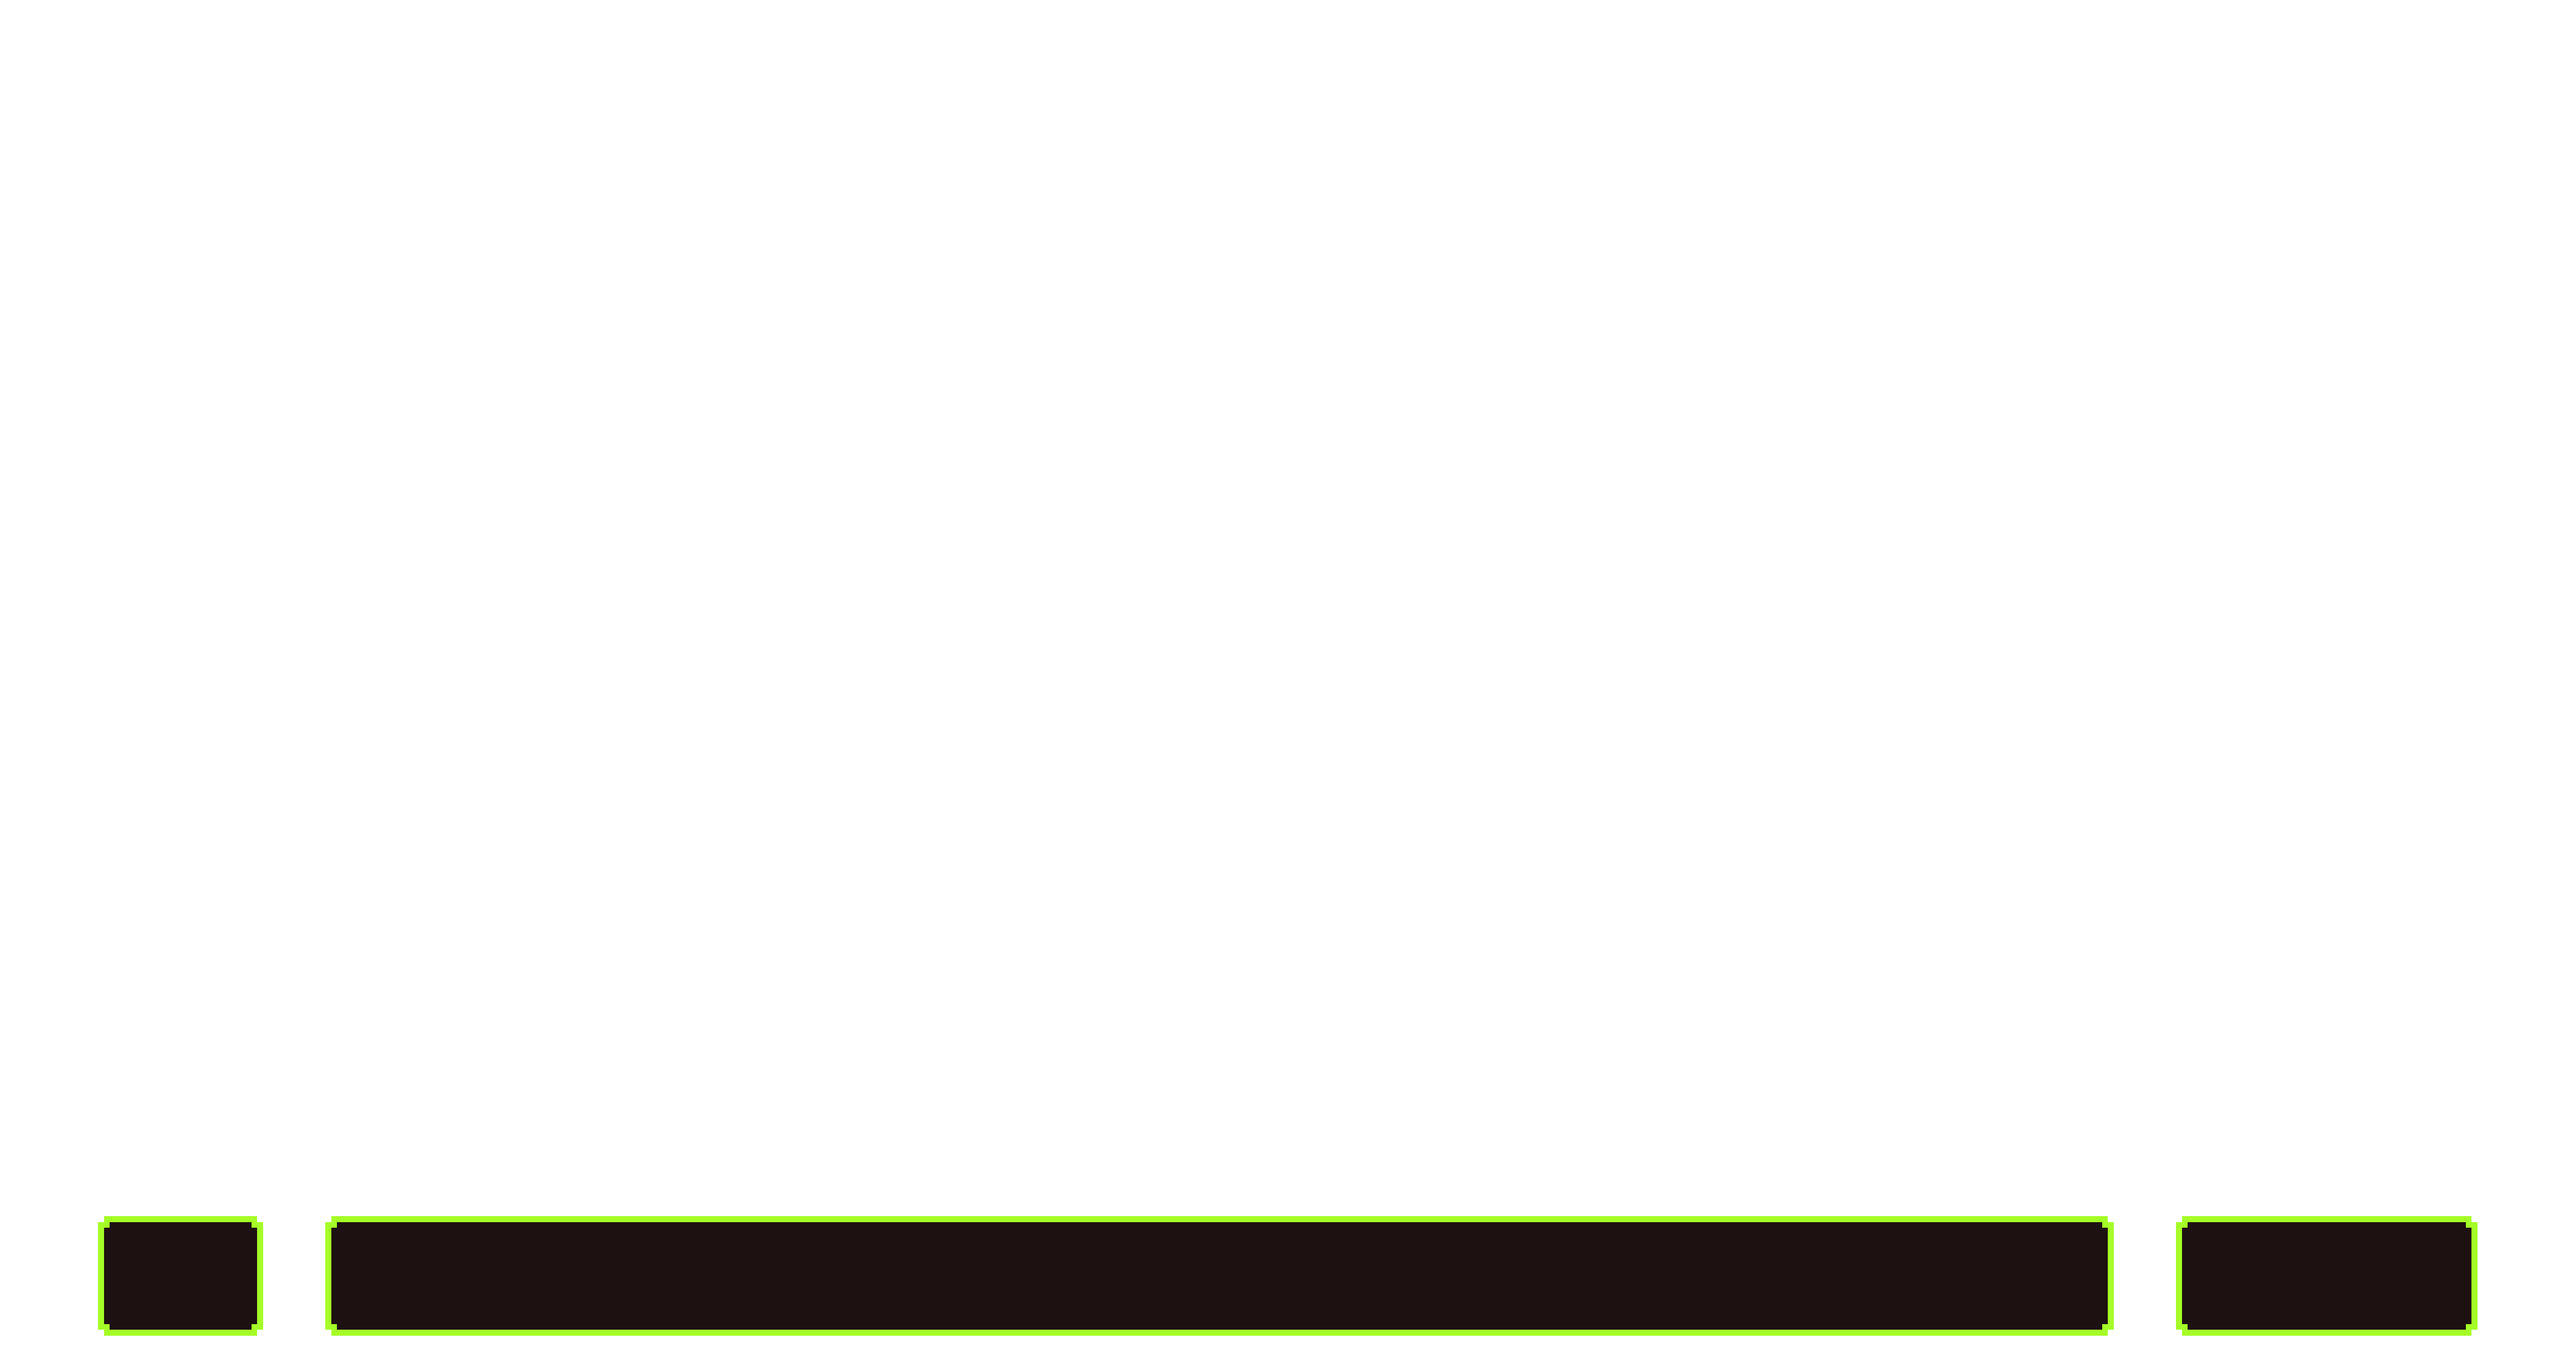
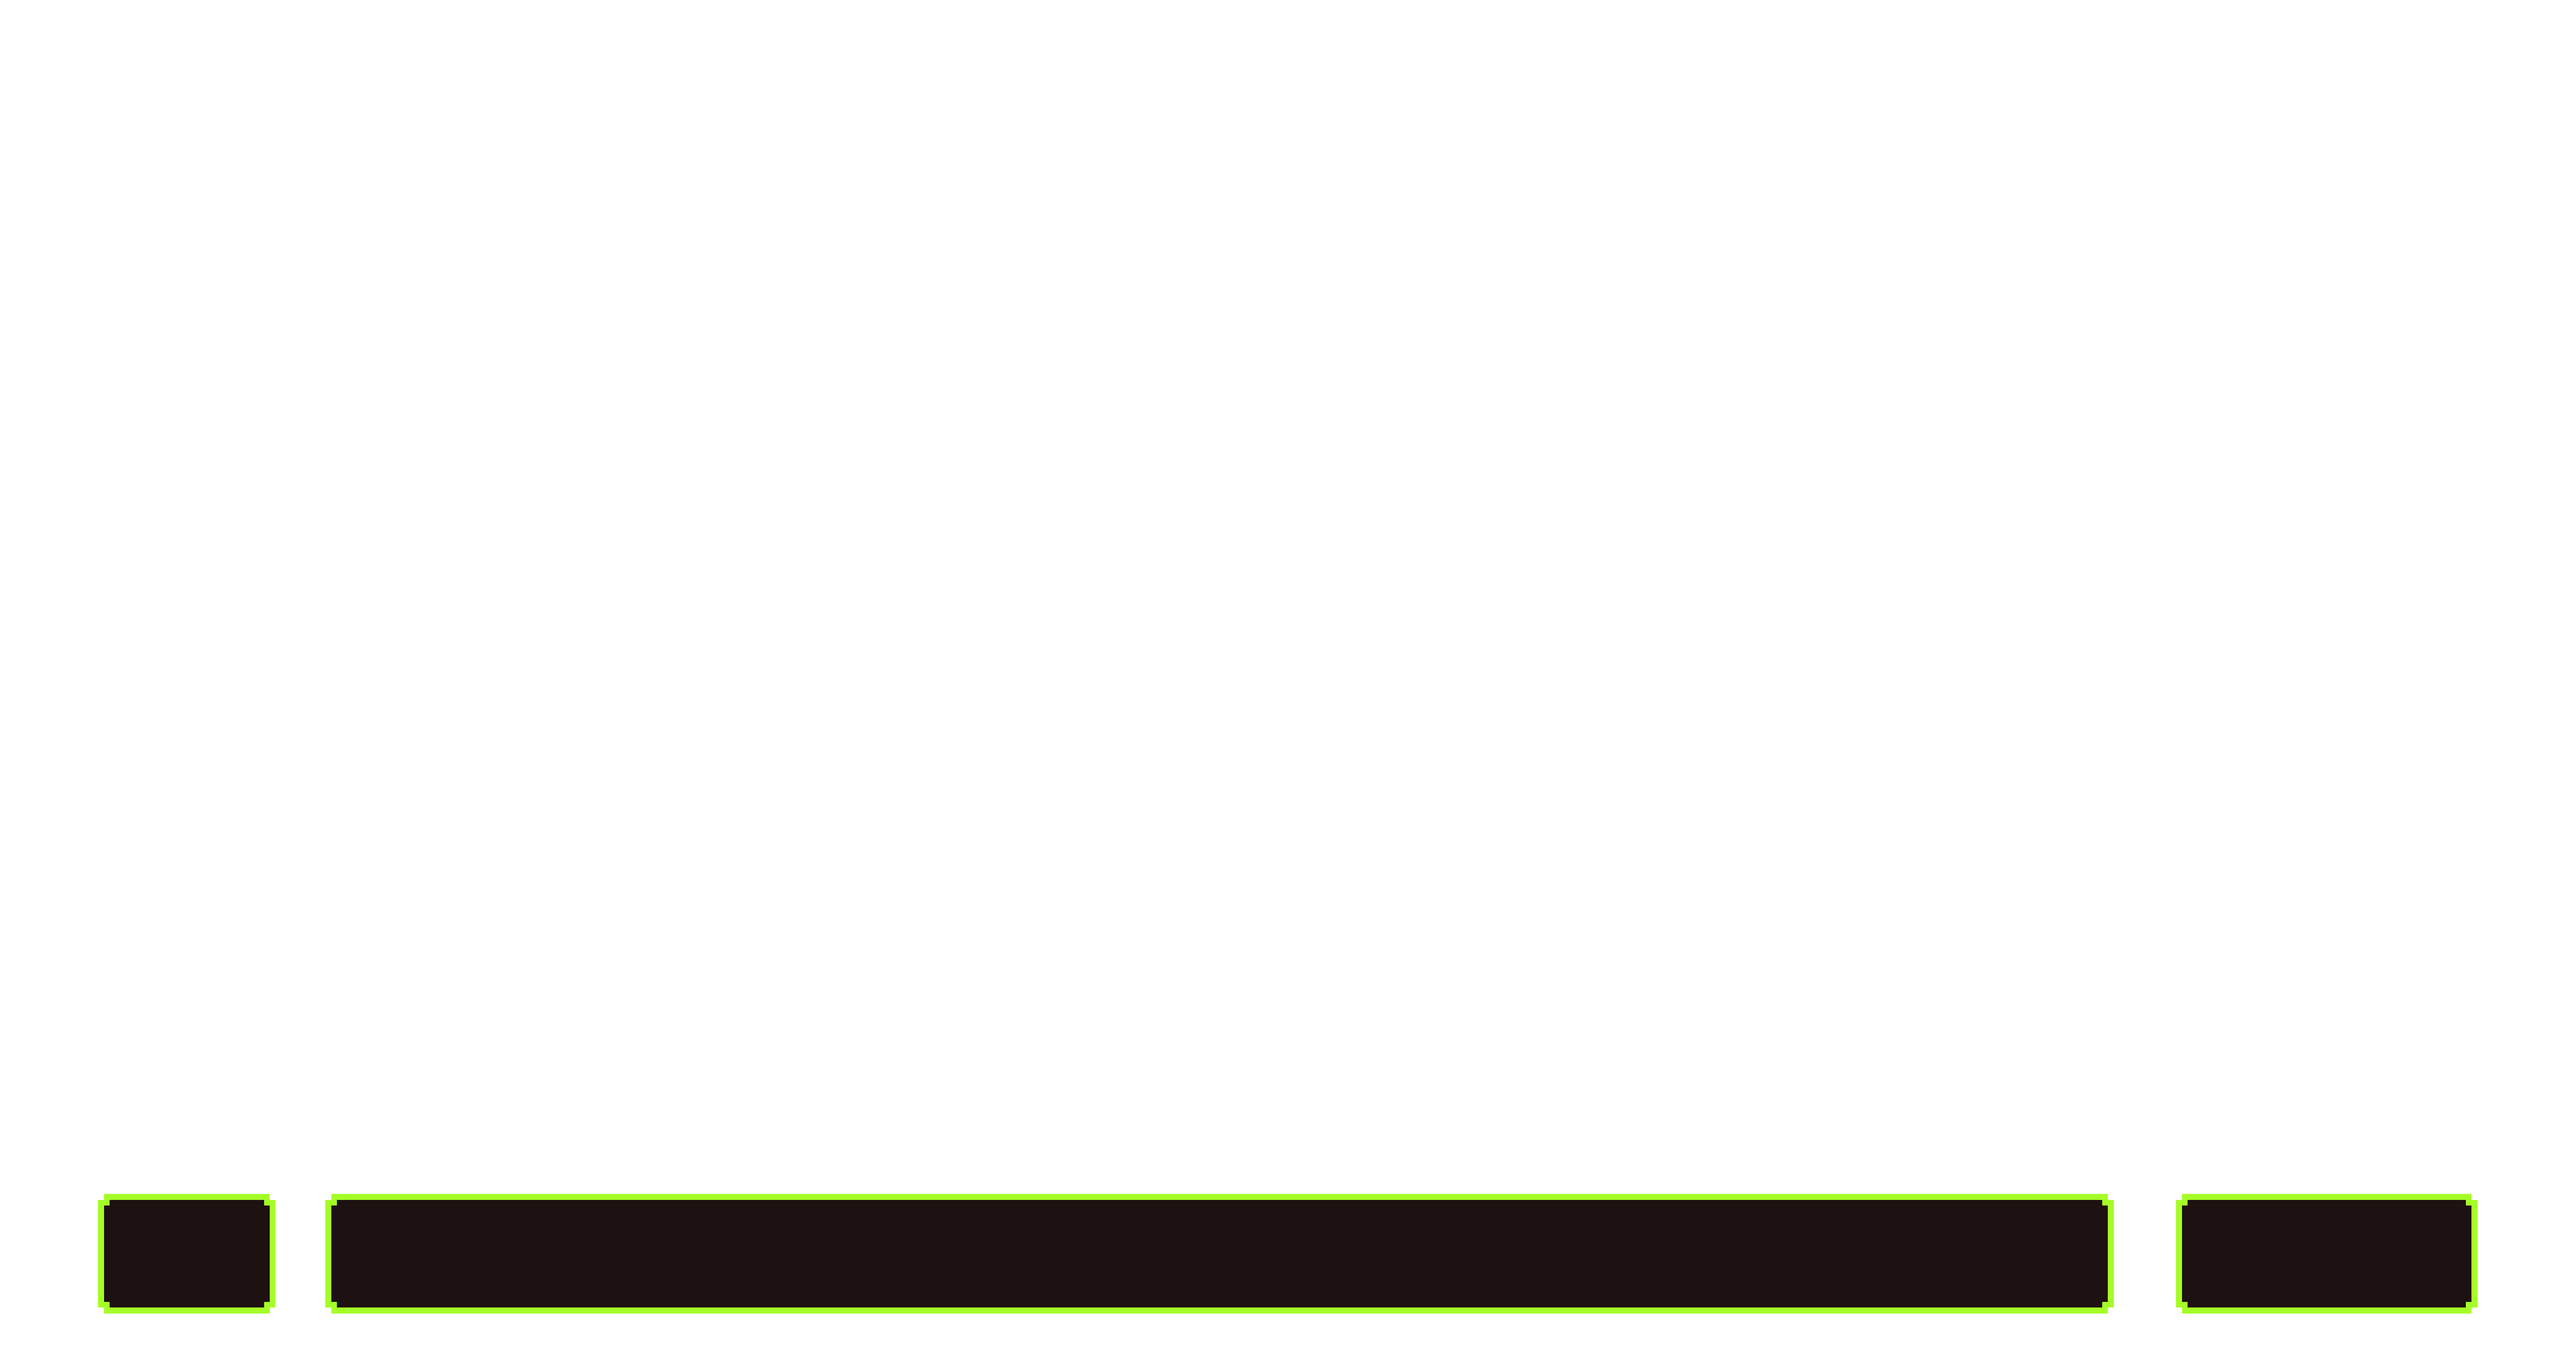
Added UI

Changed region(s): [[0.0312, 0.8711, 0.9665, 0.9956]]

diff --git a/main.js b/main.js
@@ -7,7 +7,8 @@ canvas.height = 840;
 let ctx = canvas.getContext("2d");
 let interval;
 let score = 0;
-let bullets = 3;
+let bullets = 20;
+let round = 0
 let isFreezeActive = false;
 let isPaused = false;
 let coopEnabled = false;
@@ -19,7 +20,9 @@ let images = {
   bg1: "./images/backgroundHD.png",
   bg2: "./images/sunsetHD.png",
   env: "./images/environmentHD.png",
-  crossh: "./images/crosshairHD.png"
+  crossh: "./images/crosshairHD.png",
+  ui: "./images/scoreboardHD.png",
+  bul:"./images/bulletHD.png"
 };
 
 class Environment {
@@ -42,7 +45,7 @@ function KeyLayout() {
     ["A", "S", "D", "F", "G", "H", "J", "K", "L", "Ñ", "{"],
     ["Z", "X", "C", "V", "B", "N", "M", ",", ".", "-"]
   ];
-  this.draw = function(color = "white") {
+  this.draw = function(color = "white") {    
     ctx.strokeStyle = color;
     for (i = 0; i < 12; i++) {
       ctx.strokeRect(0 + i * this.keywidth, 0, this.keywidth, this.keyheight);
@@ -180,7 +183,8 @@ function Duck() {
     this.vx = 0;
     this.vy = 0;
     this.isFlying = false;
-    this.isFalling = true;
+    this.isFalling = true;    
+    score++;
   };
   this.randomFly = () => {
     let cframe = frames - this.iframe;
@@ -231,14 +235,47 @@ function FreezeBeam(x, y) {
   };
 }
 
-let environment = new Environment();
-let keylayout = new KeyLayout();
-let obstacles = [];
-let ducks = [];
-let freeze = new FreezeBeam();
+function ScoreBoard(){
+  this.board = new Image();
+  this.board.src = images.ui;
+  this.bullet = new Image()
+  this.bullet.src = images.bul
+  this.draw = () => {
+    ctx.drawImage(this.board, 0, 0, canvas.width, canvas.height);
+    ctx.drawImage(this.bullet, 80, 750, 20, 45);
+    ctx.fillStyle = "rgb(255,255,255)";
+    ctx.font = '40px "Duck Hunt"';
+    ctx.textAlign = "left";
+    ctx.textBaseline = "middle";
+    ctx.fillText(`x${bullets.toString().padStart(2,'0')}`, 105, 773)    
+    ctx.font = '45px "Duck Hunt"';
+    ctx.fillText(score.toString().padStart(6,'0'), 1495, 775)
+  }
+}
+
+environment = new Environment();
+keylayout = new KeyLayout();
+obstacles = [];
+ducks = [];
+freeze = new FreezeBeam();
+scoreboard = new ScoreBoard();
 ducks.push(new Duck());
 
 function start() {
+  clearInterval(interval)
+  ctx.clearRect(0, 0, canvas.width, canvas.height);
+  isFreezeActive = false
+  round = 0
+  bullets = 20;
+  score = 0;
+  frames = 0
+  environment = new Environment();
+  keylayout = new KeyLayout();
+  obstacles = [];
+  ducks = [];
+  freeze = new FreezeBeam();
+  ducks.push(new Duck());
+  createObstacles("rgb(255,255,255,0.5)")
   interval = setInterval(update, 1000 / fps);
 }
 
@@ -276,6 +313,7 @@ function update() {
   freeze.draw();
   freeze.freeze()
   environment.draw();
+  scoreboard.draw()
   frames++;
 }
 
@@ -440,7 +478,6 @@ function registerShot(e) {
         ducks[d].y <= y + keyheight
       ) {
         ducks[d].gotShot();
-        score++;
       }
     }
   }
@@ -462,10 +499,10 @@ button1.addEventListener("click", function() {
   hidekeyboard = !hidekeyboard;
   if (button1.innerText === "Normal Mode") {
     button1.innerText = "Expert Mode";      
-    button1.classList.add("active")
+    button1.classList.add("pushed")
   } else {
     button1.innerText = "Normal Mode";     
-    button1.classList.remove("active")
+    button1.classList.remove("pushed")
   }  
   button1.blur()
 });
@@ -474,10 +511,10 @@ button2.addEventListener("click", function() {
   coopEnabled = !coopEnabled;
   if (button2.innerText === "Co-Op Disabled") {
     button2.innerText = "Co-Op Enabled";    
-    button2.classList.add("active")
+    button2.classList.add("pushed")
   } else {
     button2.innerText = "Co-Op Disabled";
-    button2.classList.remove("active")
+    button2.classList.remove("pushed")
   }
   button2.blur()
 });
@@ -489,5 +526,11 @@ canvas.addEventListener("mousedown", function(e) {
   }
 });
 
-createObstacles("rgb(255,255,255,0.5)");
+button3.addEventListener("click", function() {
+  if (isPaused) {
+    isPaused = false
+  }
+  start();
+})
+
 start();

diff --git a/style.css b/style.css
@@ -46,22 +46,36 @@ h1 {
   align-content: center;
 }
 button{
+  position: relative;
+  top: 0px;
   font-family: 'Duck Hunt';
   font-size: 24px;
   background-color: #48CDDE;
   color:black;
   padding: 10px 20px 5px 20px;
-  border: 0;
-  box-shadow: 0;
-  border-radius: 5px;
+  border-radius: 10px;
   cursor: pointer;
-  transition: all 0.2s ease;
-  box-shadow: 0 6px #34808a;
+  transition: All 250ms ease;
+  border: 1px solid #177c8e;
+  box-shadow: 0px 5px 0px #34808a;
+  text-shadow: 1px 1px 1px #34808a;
+}
+button:active{
+  position: relative;
+  top: 5px;
+  box-shadow: none !important;
 }
 
-
-.active {
-  margin-top: 2px;
+.pushed {
+  /* position: relative;
+  top: 3.5px; */
   background-color: #34808a;
-  box-shadow: none;
+  box-shadow: 0px 5px 0px #25575e;
+  text-shadow: 1px 1px 1px #25575e;
+}
+#button1{
+  width:205px
+}
+#button2{
+  width:220px
 }

diff --git a/index.html b/index.html
@@ -14,7 +14,7 @@
     <section id="buttonsection">
       <button id="button1">Normal Mode</button>
       <button id="button2">Co-Op Disabled</button>
-      <button id="button3">Button 3</button>
+      <button id="button3">Reset</button>
     </section>
     <script src="./main.js"></script>
   </body>
